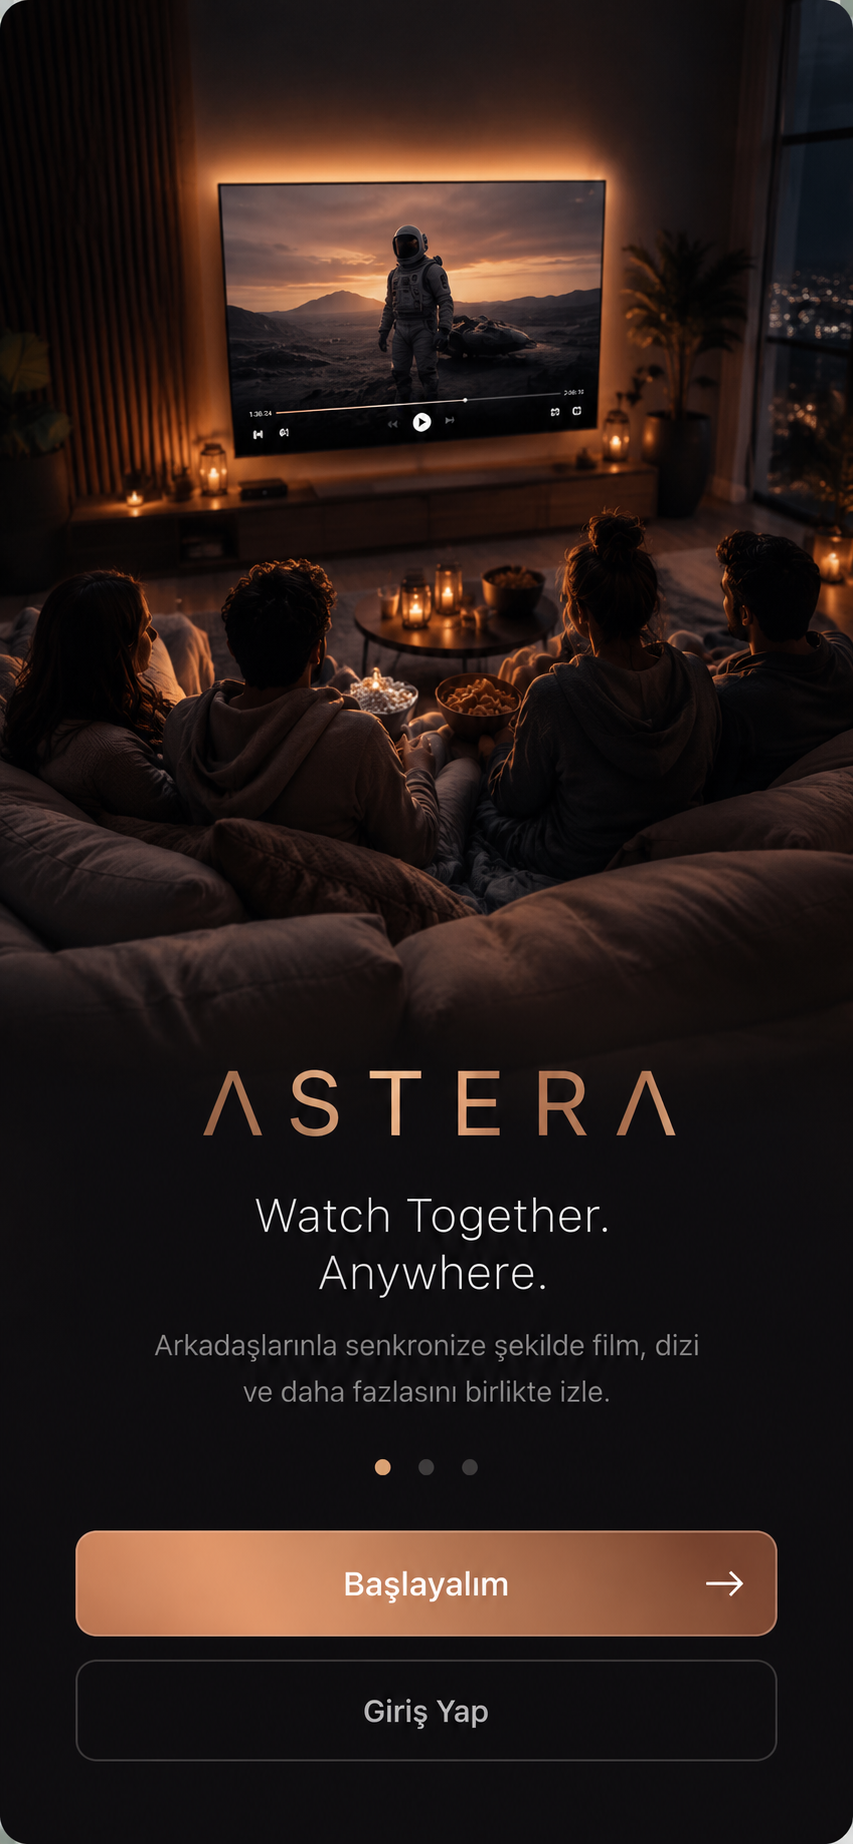
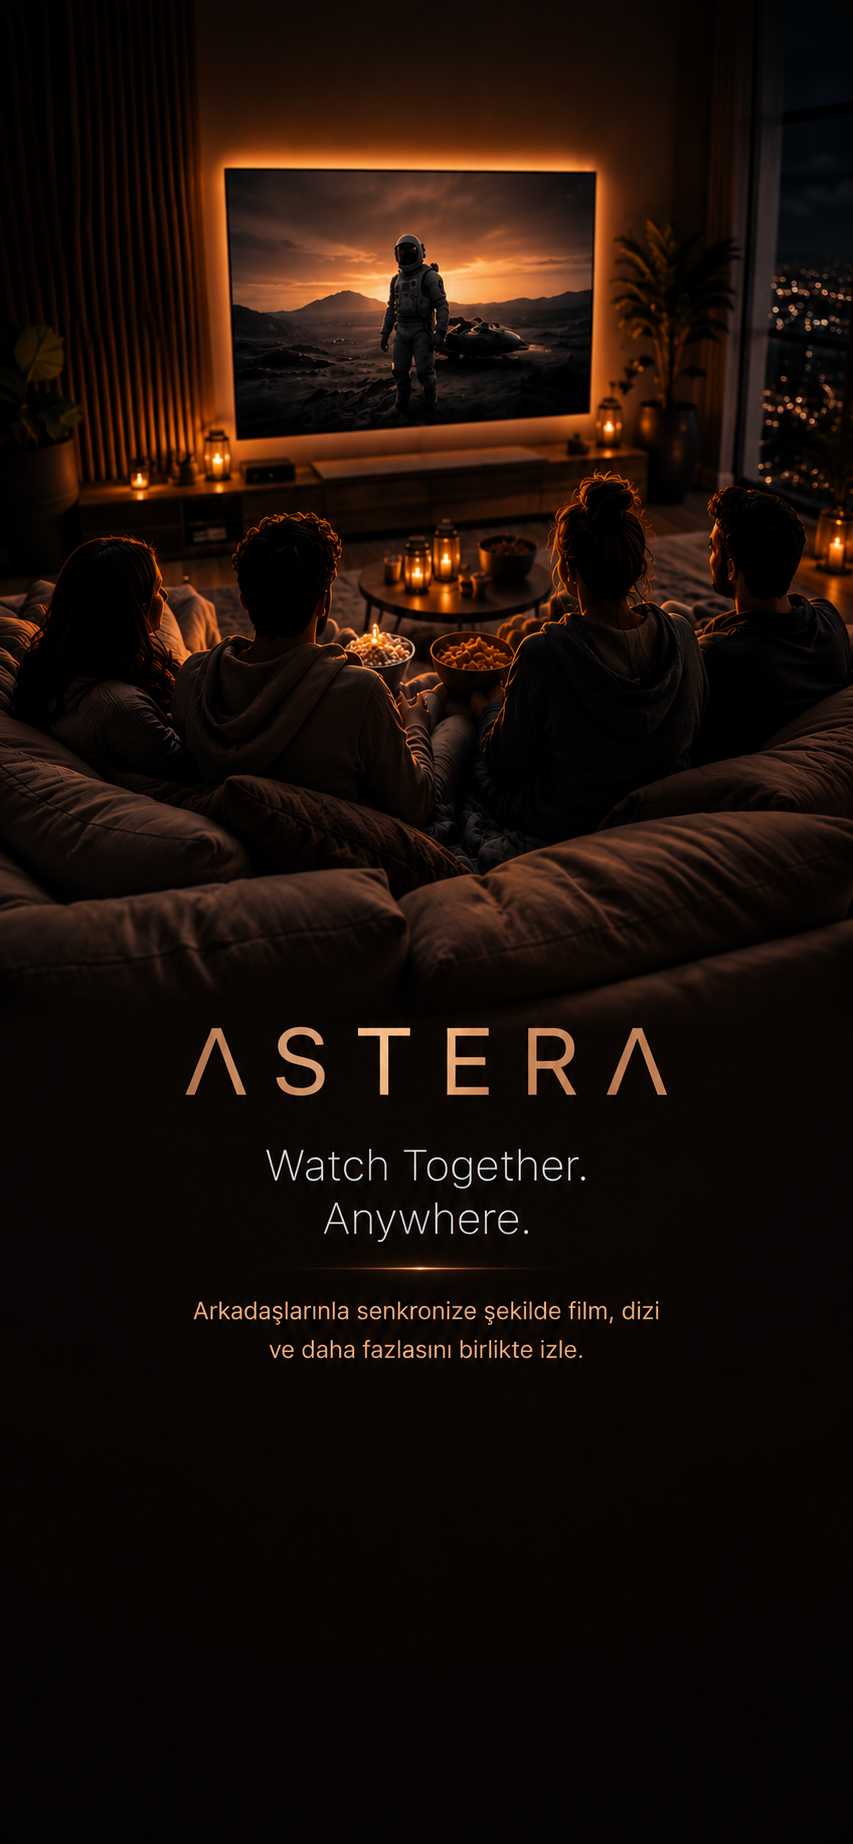
Rework onboarding: fit artwork whole, buttons in the empty space
Replace the onboarding artwork with the full ASTERA composition (photo + logo
+ tagline + subtitle) that reserves an empty black area at the bottom, and fix
the layout that was cropping the logo:

- Show the artwork whole — pinned to full width and the top with its natural
  aspect ratio — so `cover` can no longer zoom the logo/tagline off-screen.
- Drop the heavy black scrim and the dots; the artwork's own black lower third
  (content ends at ~74% of the image, verified by pixel analysis) is where the
  buttons go, with only a small bottom fade for safety on shorter screens.
- Keep the two real buttons (copper-gradient "Başlayalım" + glass "Giriş Yap")
  anchored in that empty space.

Claude-Session: https://claude.ai/code/session_01RR9Bhwx9mwGVBvEhMnaN4t

diff --git a/src/screens/OnboardingScreen.tsx b/src/screens/OnboardingScreen.tsx
@@ -2,7 +2,7 @@ import React from 'react';
 import { Image, StyleSheet, Text, View } from 'react-native';
 import { StatusBar } from 'expo-status-bar';
 import { LinearGradient } from 'expo-linear-gradient';
-import Animated, { FadeInDown } from 'react-native-reanimated';
+import Animated, { FadeIn } from 'react-native-reanimated';
 import Svg, { Path } from 'react-native-svg';
 import { useSafeAreaInsets } from 'react-native-safe-area-context';
 import type { NativeStackScreenProps } from '@react-navigation/native-stack';
@@ -14,7 +14,7 @@ import type { RootStackParamList } from '@/navigation/types';
 
 type Props = NativeStackScreenProps<RootStackParamList, 'Onboarding'>;
 
-// Warm peach→copper wash matching the "Başlayalım" button baked into the art.
+const IMG_RATIO = 853 / 1844; // width / height of the artwork
 const PRIMARY_GRADIENT = ['#EDBF95', '#D3925E', '#B06B3E'] as const;
 
 function ArrowRight() {
@@ -32,9 +32,10 @@ function ArrowRight() {
 }
 
 /**
- * First-run onboarding. The supplied artwork (logo, tagline, dots) is the
- * full-bleed background; we fade its lower edge into black and lay real,
- * functional buttons over the "Başlayalım" / "Giriş Yap" positions.
+ * First-run onboarding. The artwork (photo + ASTERA logo + tagline + subtitle)
+ * is shown whole — pinned to full width and the top, so nothing is cropped —
+ * and the two real buttons drop into the empty black space the art leaves at
+ * the bottom.
  */
 export function OnboardingScreen({ navigation }: Props) {
   const insets = useSafeAreaInsets();
@@ -47,28 +48,25 @@ export function OnboardingScreen({ navigation }: Props) {
   return (
     <View style={styles.root}>
       <StatusBar style="light" />
-      <Image source={require('../../assets/onboarding.png')} style={StyleSheet.absoluteFill} resizeMode="cover" />
 
-      {/* Keep the baked logo / tagline / subtitle (all above ~76%) crisp, then
-          go solid black below so the baked dots + buttons vanish and our real
-          controls sit on a clean footer. Measured against the artwork layout. */}
+      {/* Full width, pinned to the top, natural aspect ratio → the whole
+          composition is visible and its black lower third meets the black
+          background seamlessly. */}
+      <Image source={require('../../assets/onboarding.png')} style={styles.art} resizeMode="cover" />
+
+      {/* Gentle fade into pure black at the very bottom so the buttons always
+          sit on a clean field regardless of device height. */}
       <LinearGradient
-        colors={['rgba(9,9,9,0)', 'rgba(9,9,9,0)', palette.background, palette.background]}
-        locations={[0, 0.76, 0.805, 1]}
-        style={StyleSheet.absoluteFill}
+        colors={['rgba(9,9,9,0)', palette.background]}
+        locations={[0, 1]}
+        style={styles.bottomFade}
         pointerEvents="none"
       />
 
       <Animated.View
-        entering={FadeInDown.duration(500).delay(120)}
-        style={[styles.footer, { paddingBottom: insets.bottom + spacing.lg }]}
+        entering={FadeIn.duration(500).delay(150)}
+        style={[styles.footer, { paddingBottom: insets.bottom + spacing.xl }]}
       >
-        <View style={styles.dots}>
-          <View style={[styles.dot, styles.dotActive]} />
-          <View style={styles.dot} />
-          <View style={styles.dot} />
-        </View>
-
         <PressableScale onPress={enter} activeScale={0.97} accessibilityLabel="Başlayalım">
           <LinearGradient
             colors={PRIMARY_GRADIENT}
@@ -95,32 +93,30 @@ export function OnboardingScreen({ navigation }: Props) {
 
 const styles = StyleSheet.create({
   root: { flex: 1, backgroundColor: palette.background },
+  art: {
+    position: 'absolute',
+    top: 0,
+    left: 0,
+    width: '100%',
+    aspectRatio: IMG_RATIO,
+  },
+  bottomFade: {
+    position: 'absolute',
+    left: 0,
+    right: 0,
+    bottom: 0,
+    height: '20%',
+  },
   footer: {
     position: 'absolute',
     left: 0,
     right: 0,
     bottom: 0,
     paddingHorizontal: spacing.xl,
-    gap: spacing.sm,
-  },
-  dots: {
-    flexDirection: 'row',
-    justifyContent: 'center',
-    gap: spacing.sm,
-    marginBottom: spacing.md,
-  },
-  dot: {
-    width: 7,
-    height: 7,
-    borderRadius: 4,
-    backgroundColor: 'rgba(255,255,255,0.28)',
-  },
-  dotActive: {
-    width: 20,
-    backgroundColor: palette.amber,
+    gap: spacing.md,
   },
   primaryBtn: {
-    height: 56,
+    height: 58,
     borderRadius: radius.lg,
     flexDirection: 'row',
     alignItems: 'center',
@@ -132,11 +128,11 @@ const styles = StyleSheet.create({
   primaryText: { color: palette.white, fontWeight: '700', letterSpacing: 0.2 },
   arrow: { position: 'absolute', right: spacing.xl },
   secondaryBtn: {
-    height: 52,
+    height: 54,
     borderRadius: radius.lg,
     alignItems: 'center',
     justifyContent: 'center',
-    backgroundColor: 'rgba(255,255,255,0.05)',
+    backgroundColor: 'rgba(255,255,255,0.06)',
     borderWidth: StyleSheet.hairlineWidth,
     borderColor: 'rgba(255,255,255,0.16)',
   },
